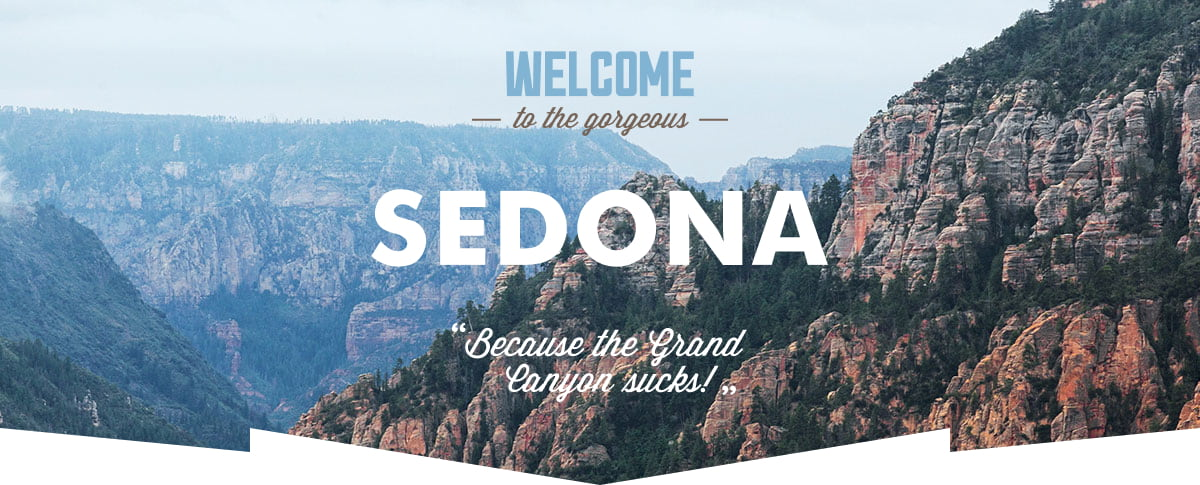
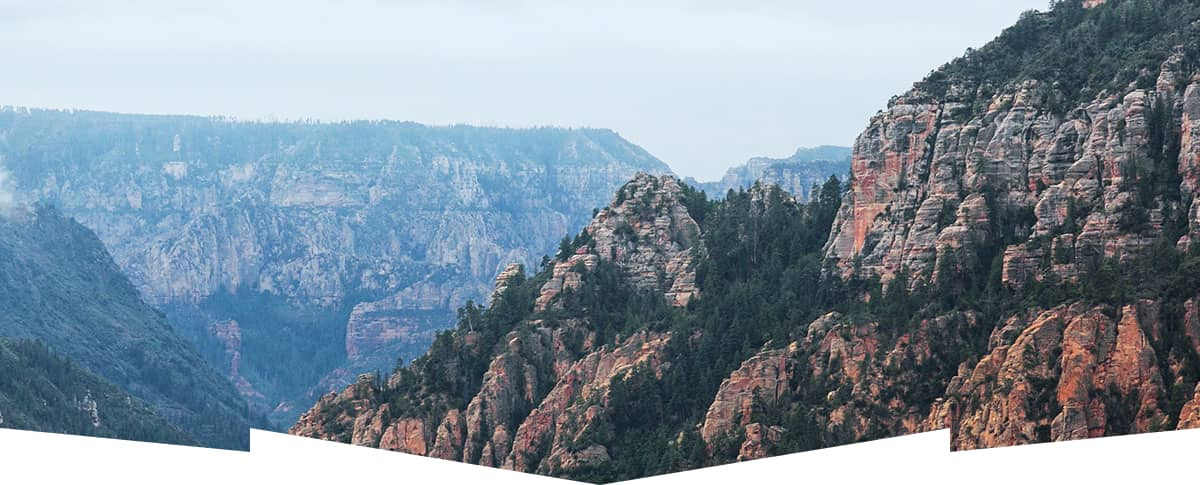
Вносит правки в блок Welcome

diff --git a/index.html b/index.html
@@ -51,6 +51,11 @@
 
     <main class="main-container main-index">
       <div class="page-container">
+
+        <div class="banner">
+          <img class="banner-image" src="images/icons/welcome.svg" width="458" height="352" alt="Добро пожаловать в Седону.">
+        </div>
+
         <h1 class="main-title">Седона — небольшой городок в Аризоне, заслуживающий большего!</h1>
         <p class="main-text">Рассмотрим 5 причин, по которым Седона круче, чем Гранд-Каньон!</p>
 

diff --git a/styles/styles.css b/styles/styles.css
@@ -180,15 +180,22 @@ body {
 
 .main-container {
   flex-grow: 1;
-  padding-top: 485px;
 }
 
 .main-index {
   color: #333333;
   background-color: #ffffff;
+}
+
+.banner {
+  background-color: #5A8AAE;
   background-image: url("../images/background-main.jpg");
-  background-size: 100% auto;
-  background-repeat: no-repeat;
+  padding: 51px 0 82px 0;
+}
+
+.banner-image {
+  margin: 0 auto;
+  display: block;
 }
 
 .booking-title,
